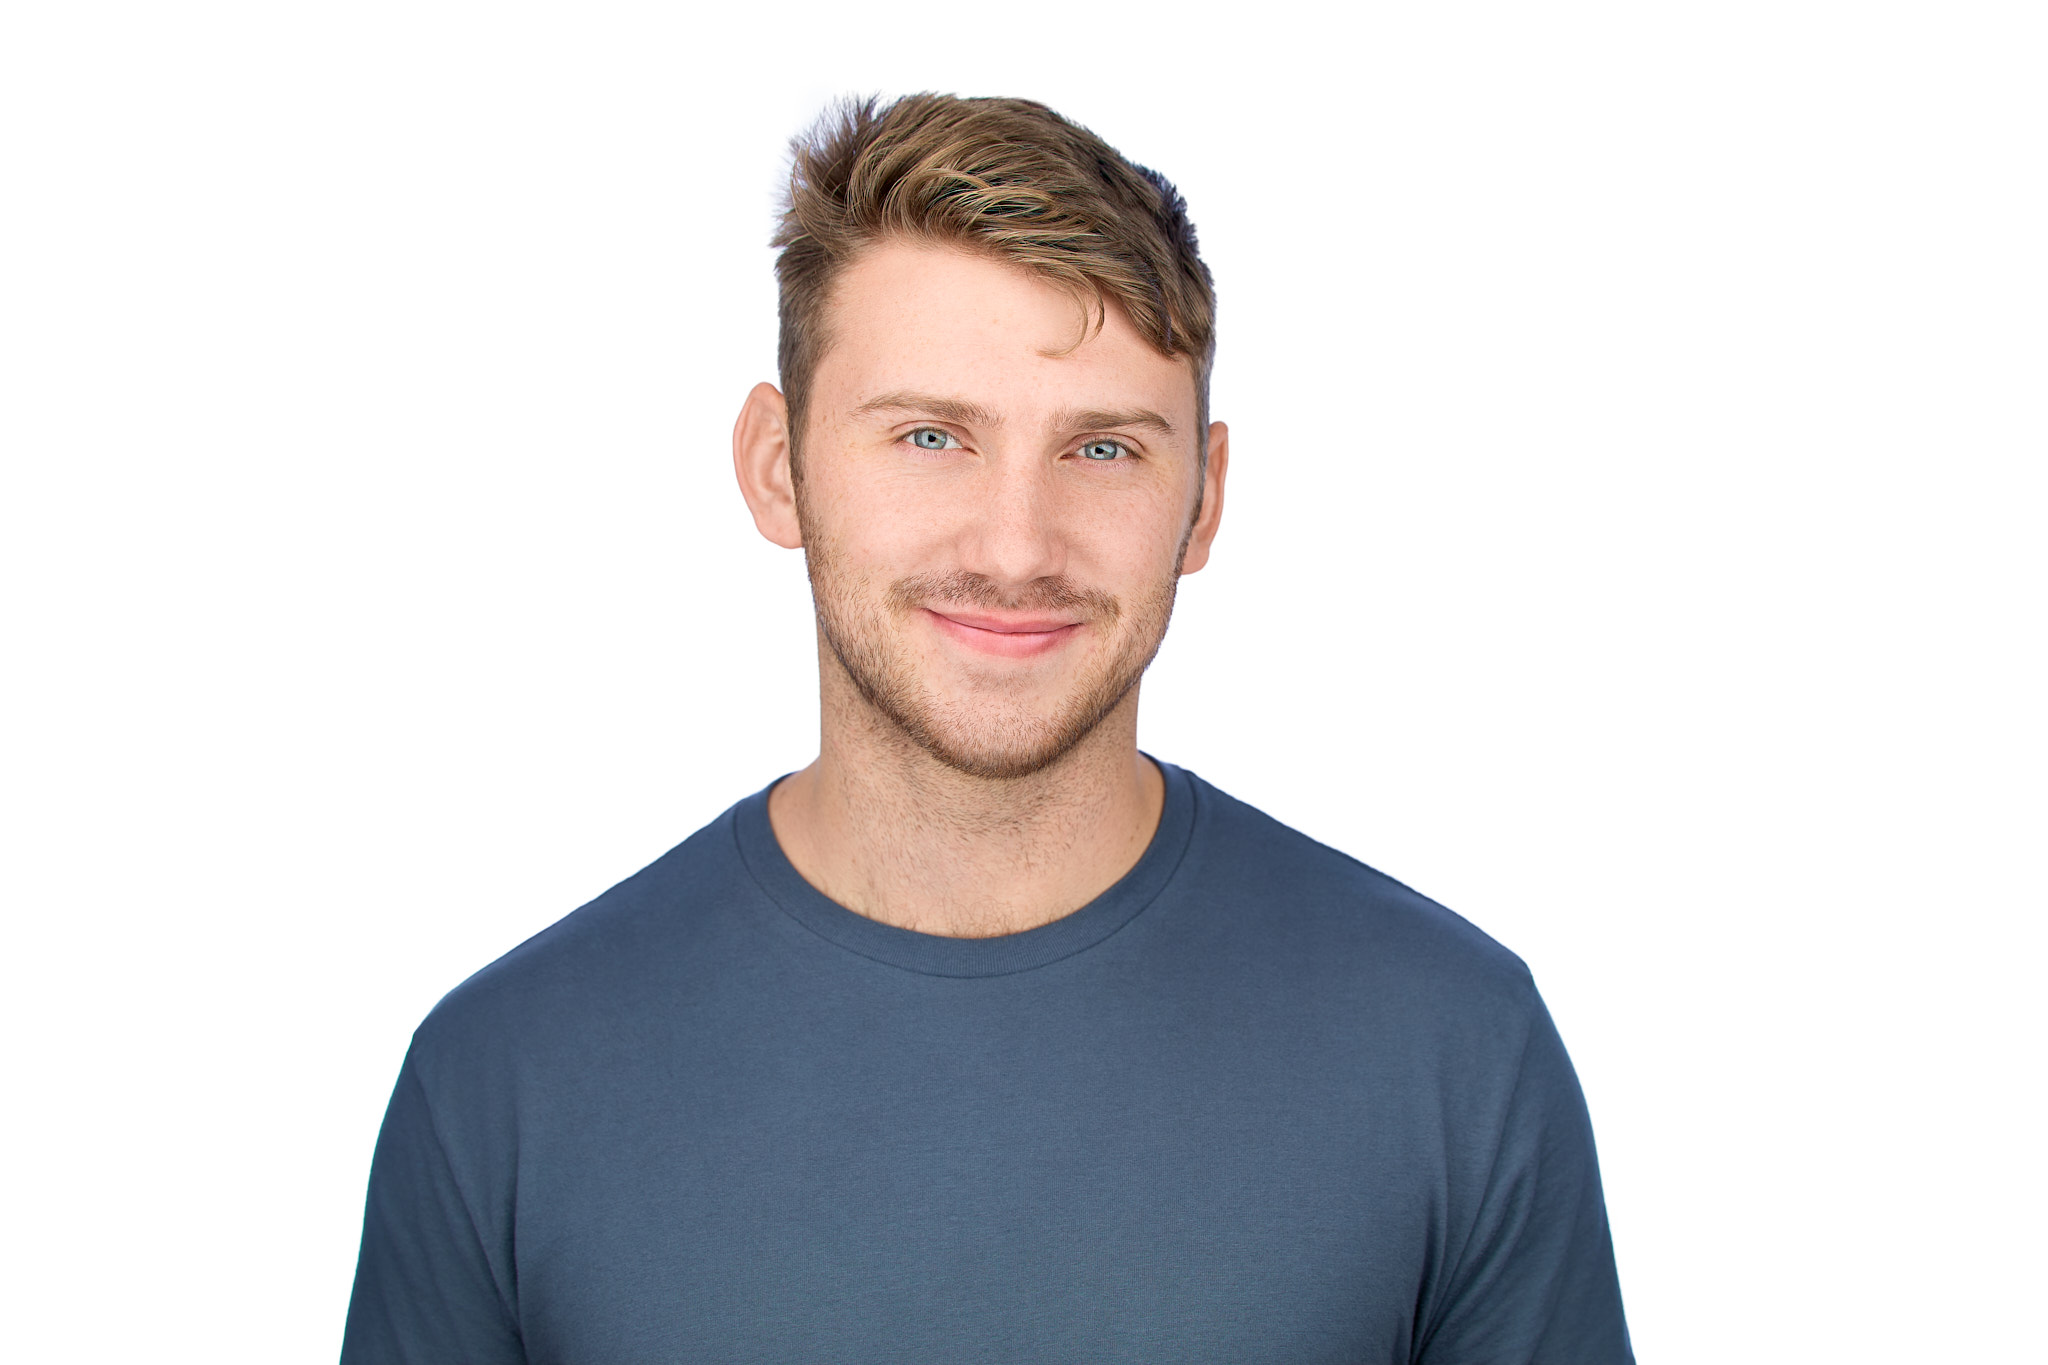
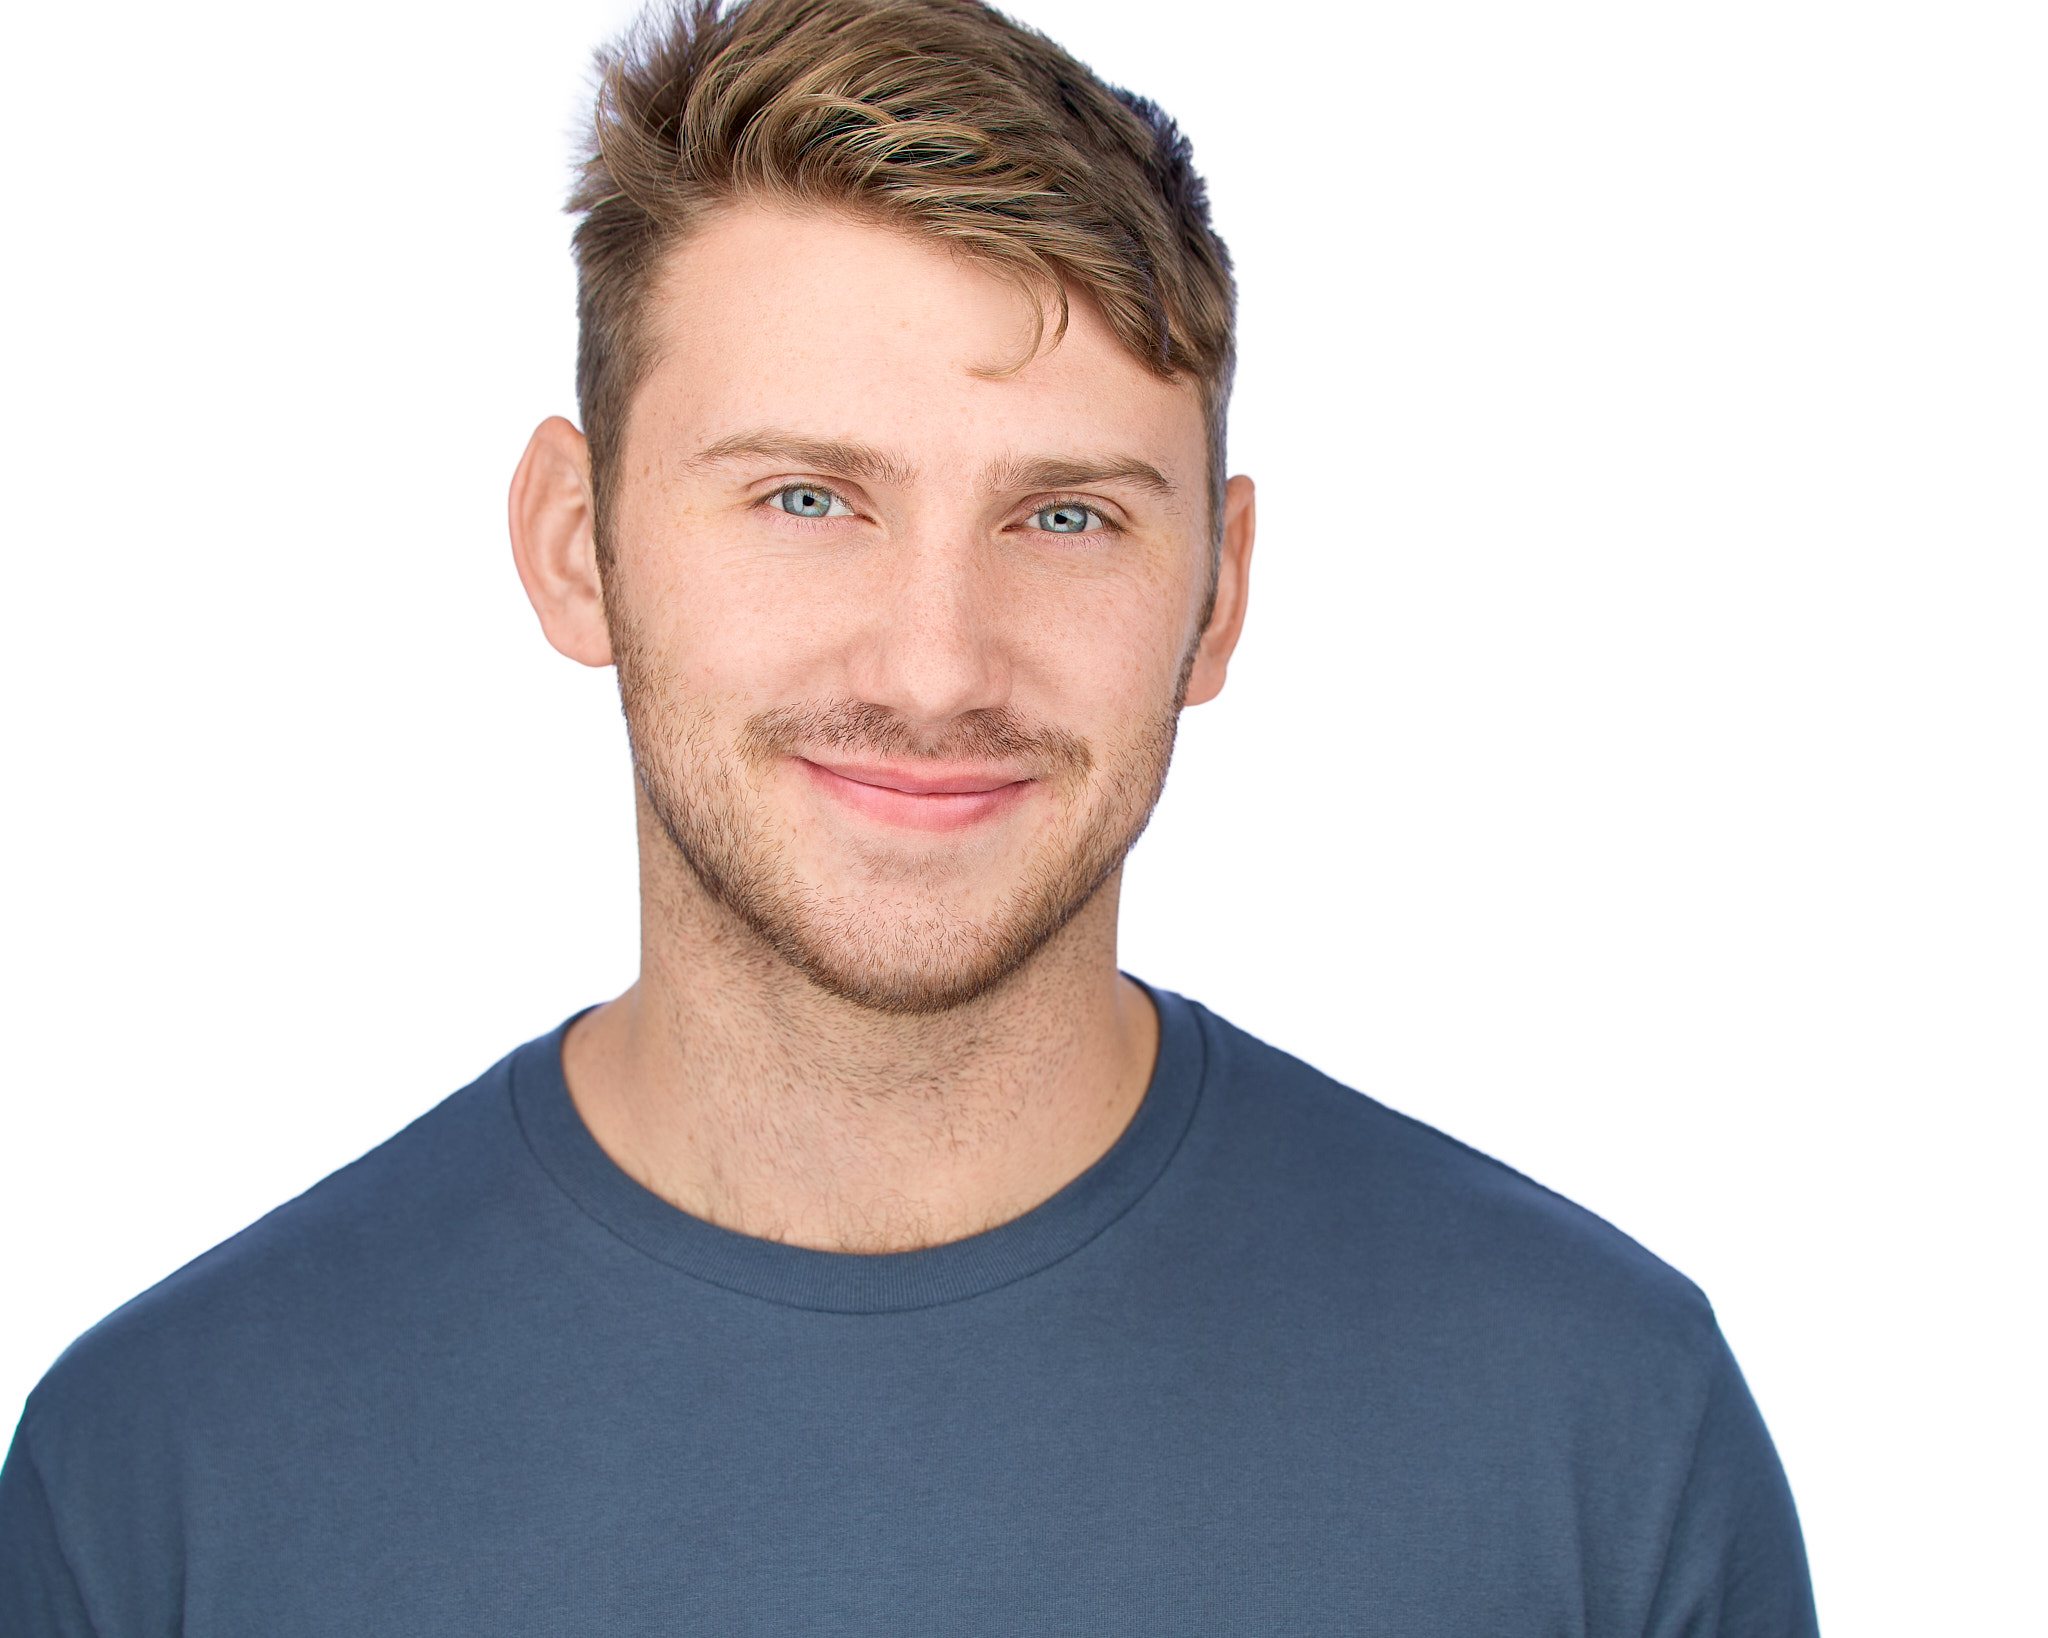
Tighter headshot crops
Claude-Session: https://claude.ai/code/session_019b5QpcFUBa2qm5SUwcAC42

Changed region(s): [[0.0, 0.0, 0.9062, 1.0]]

diff --git a/index.html b/index.html
@@ -63,8 +63,8 @@ h1,h2,h3{font-family:"Oswald",sans-serif;text-transform:uppercase;line-height:.9
 .frame{background:var(--cream);aspect-ratio:4/4.6;overflow:hidden;position:relative;border:4px solid #1a1a1a}
 .frame:nth-child(1){transform:rotate(-1.2deg)} .frame:nth-child(2){transform:rotate(.6deg)} .frame:nth-child(3){transform:rotate(1deg)}
 .frame img{width:100%;height:100%;object-fit:cover}
-.frame.face img{object-position:50% 30%}
-.frame.med img{object-position:50% 35%}
+.frame.face img{object-position:45% 20%}
+.frame.med img{object-position:52% 20%}
 .frame.full img{object-position:50% 30%}
 .frame .small-cond{font-size:clamp(15px,4.2vw,30px);line-height:1.02;word-break:break-word}
 .frame.typo{display:flex;flex-direction:column;align-items:center;justify-content:center;text-align:center;padding:14px 10px}
